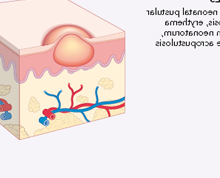
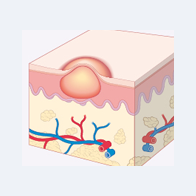
Crop Bolognia diagrams to centered illustrations without text

diff --git a/styles.css b/styles.css
@@ -338,7 +338,7 @@ body {
   z-index: 1;
   background: #eef2f7;
   border-bottom: 1px solid #cbd5e1;
-  padding: 0.5rem 0.65rem;
+  padding: 0.75rem 0.85rem;
   transform: rotateY(180deg);
 }
 
@@ -360,6 +360,7 @@ body {
   height: auto;
   object-fit: contain;
   object-position: center;
+  transform: scaleX(-1);
 }
 
 .figure-flip-toolbar {

diff --git a/scripts/crop_bolognia_diagrams.py b/scripts/crop_bolognia_diagrams.py
@@ -1,7 +1,8 @@
 """
-Crop Bolognia TABLE 3.1 diagram column (center slice) per lesion row from PSK PNGs.
+Crop Bolognia TABLE 3.1 diagram illustrations (no text) per lesion row from PSK PNGs.
 Panels: 0 = macule/patch, 1 = papule/plaque/nodule/vesicle, 2 = bulla/pustule/wheal/abscess.
-Horizontal slice tuned for 600px-wide figures (text | diagram | photo).
+
+Each output is the 3D skin block centered on a square canvas matching the flip-card back.
 
 Downloads panels if missing. Run: python scripts/crop_bolognia_diagrams.py
 """
@@ -10,7 +11,7 @@ from __future__ import annotations
 import urllib.request
 from pathlib import Path
 
-from PIL import Image, ImageOps
+from PIL import Image
 
 PSK_URLS = [
     "https://plasticsurgerykey.com/wp-content/uploads/2016/04/B9781455726387000031_t0010_group0-0.png",
@@ -57,9 +58,15 @@ SECONDARY_ROWS: dict[str, tuple[int, int]] = {
     "scar": (1, 2),
 }
 
-# Diagram band within 600px-wide art (empirically tuned for PSK exports)
-DIAG_X0 = 178
-DIAG_X1 = 398
+# Diagram column within 600px-wide PSK panels (text | examples | diagram | photo).
+DIAG_X0 = 265
+DIAG_X1 = 418
+ROW_TRIM_TOP = 12
+ROW_TRIM_BOTTOM = 4
+ILLUSTRATION_ROW_THRESH = 35
+CONTENT_MARGIN = 6
+CANVAS_PADDING = 22
+CANVAS_FILL = (238, 242, 247)  # matches .figure-face--back background
 
 
 def load_panel(idx: int) -> Image.Image:
@@ -73,12 +80,96 @@ def load_panel(idx: int) -> Image.Image:
     return Image.open(p).convert("RGB")
 
 
+def _is_illustration_pixel(p: tuple[int, ...]) -> bool:
+    r, g, b = p[:3]
+    if max(r, g, b) < 120:
+        return False
+    if r < 95 and g < 95 and b < 95:
+        return False
+    if r > 228 and g > 232 and b > 236:
+        return False
+    if abs(r - g) < 12 and abs(g - b) < 12 and r > 205:
+        return False
+    return True
+
+
+def _row_illustration_counts(band: Image.Image) -> list[int]:
+    px = band.load()
+    w, h = band.size
+    return [sum(1 for x in range(w) if _is_illustration_pixel(px[x, y])) for y in range(h)]
+
+
+def _main_vertical_span(counts: list[int], thresh: int = ILLUSTRATION_ROW_THRESH) -> tuple[int, int]:
+    best = (0, len(counts), 0)
+    start: int | None = None
+    for y, count in enumerate(counts):
+        if count >= thresh:
+            if start is None:
+                start = y
+        elif start is not None:
+            score = sum(counts[start:y])
+            if score > best[2]:
+                best = (start, y, score)
+            start = None
+    if start is not None:
+        score = sum(counts[start:])
+        if score > best[2]:
+            best = (start, len(counts), score)
+    return best[0], best[1]
+
+
+def _illustration_bbox(im: Image.Image) -> tuple[int, int, int, int]:
+    px = im.load()
+    w, h = im.size
+    minx, miny, maxx, maxy = w, h, 0, 0
+    found = False
+    for y in range(h):
+        for x in range(w):
+            if _is_illustration_pixel(px[x, y]):
+                found = True
+                minx = min(minx, x)
+                miny = min(miny, y)
+                maxx = max(maxx, x)
+                maxy = max(maxy, y)
+    if not found:
+        return 0, 0, w, h
+    return minx, miny, maxx + 1, maxy + 1
+
+
+def _center_on_square(content: Image.Image) -> Image.Image:
+    side = max(content.size) + CANVAS_PADDING * 2
+    canvas = Image.new("RGB", (side, side), CANVAS_FILL)
+    ox = (side - content.width) // 2
+    oy = (side - content.height) // 2
+    canvas.paste(content, (ox, oy))
+    return canvas
+
+
 def crop_row(im: Image.Image, row: int, rows: int) -> Image.Image:
     h = im.height
     row_h = h // rows
     y0 = row * row_h
     y1 = (row + 1) * row_h if row < rows - 1 else h
-    return im.crop((DIAG_X0, y0, DIAG_X1, y1))
+    if row > 0:
+        y0 = max(0, y0 - ROW_TRIM_TOP)
+    if row < rows - 1:
+        y1 = min(h, y1 + ROW_TRIM_BOTTOM)
+
+    band = im.crop((DIAG_X0, y0, DIAG_X1, y1))
+    vy0, vy1 = _main_vertical_span(_row_illustration_counts(band))
+    band = band.crop((0, vy0, band.width, vy1))
+
+    bx0, by0, bx1, by1 = _illustration_bbox(band)
+    m = CONTENT_MARGIN
+    content = band.crop(
+        (
+            max(0, bx0 - m),
+            max(0, by0 - m),
+            min(band.width, bx1 + m),
+            min(band.height, by1 + m),
+        )
+    )
+    return _center_on_square(content)
 
 
 def main() -> None:
@@ -92,13 +183,11 @@ def main() -> None:
         if ri >= rows:
             raise ValueError(ident, pi, ri)
         crop = crop_row(im, ri, rows)
-        # Horizontal mirror restores left–right orientation to match the print/Bolognia layout.
-        crop = ImageOps.mirror(crop)
         dest = OUT / f"{ident}.png"
         crop.save(dest, optimize=True)
         print(dest, crop.size)
 
-    crop = ImageOps.mirror(crop_row(panels[0], 0, 2))
+    crop = crop_row(panels[0], 0, 2)
     crop.save(OUT / "_default.png", optimize=True)
     print(OUT / "_default.png", crop.size)
 
